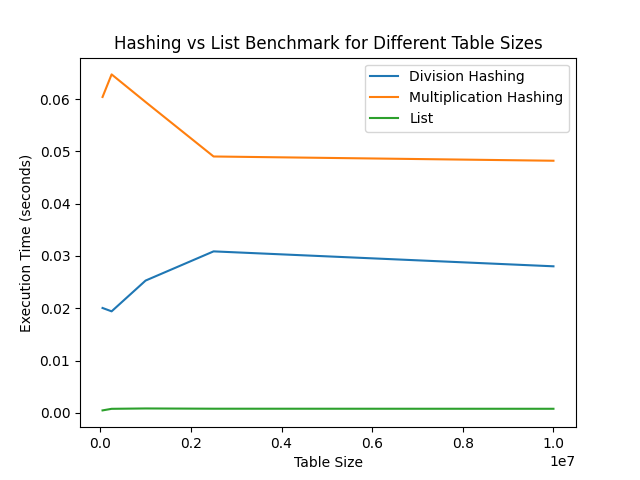
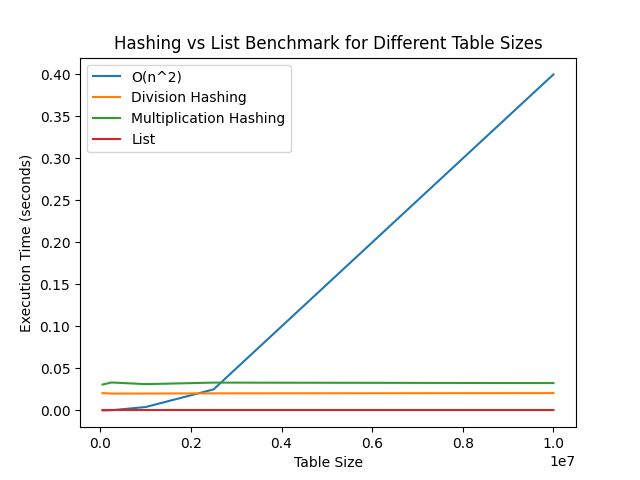
benchmark theoretical

diff --git a/lab_5/benchmark.py b/lab_5/benchmark.py
@@ -49,6 +49,20 @@ if __name__ == "__main__":
         multiplication_times.append(multiplication_time)
         list_times.append(list_time)
 
+    theoretical_times = []
+    base_size = table_sizes[0]
+    base_time = 1  
+    scaling_factor = 0.00001 
+
+    for size in table_sizes:
+        ratio = (size / base_size) ** 2
+        time = base_time * ratio * scaling_factor
+        theoretical_times.append(time)
+
+
+
+    plt.plot()
+    plt.plot(table_sizes, theoretical_times, label="O(n^2)")
     plt.plot(table_sizes, division_times, label='Division Hashing')
     plt.plot(table_sizes, multiplication_times, label='Multiplication Hashing')
     plt.plot(table_sizes, list_times, label='List')
